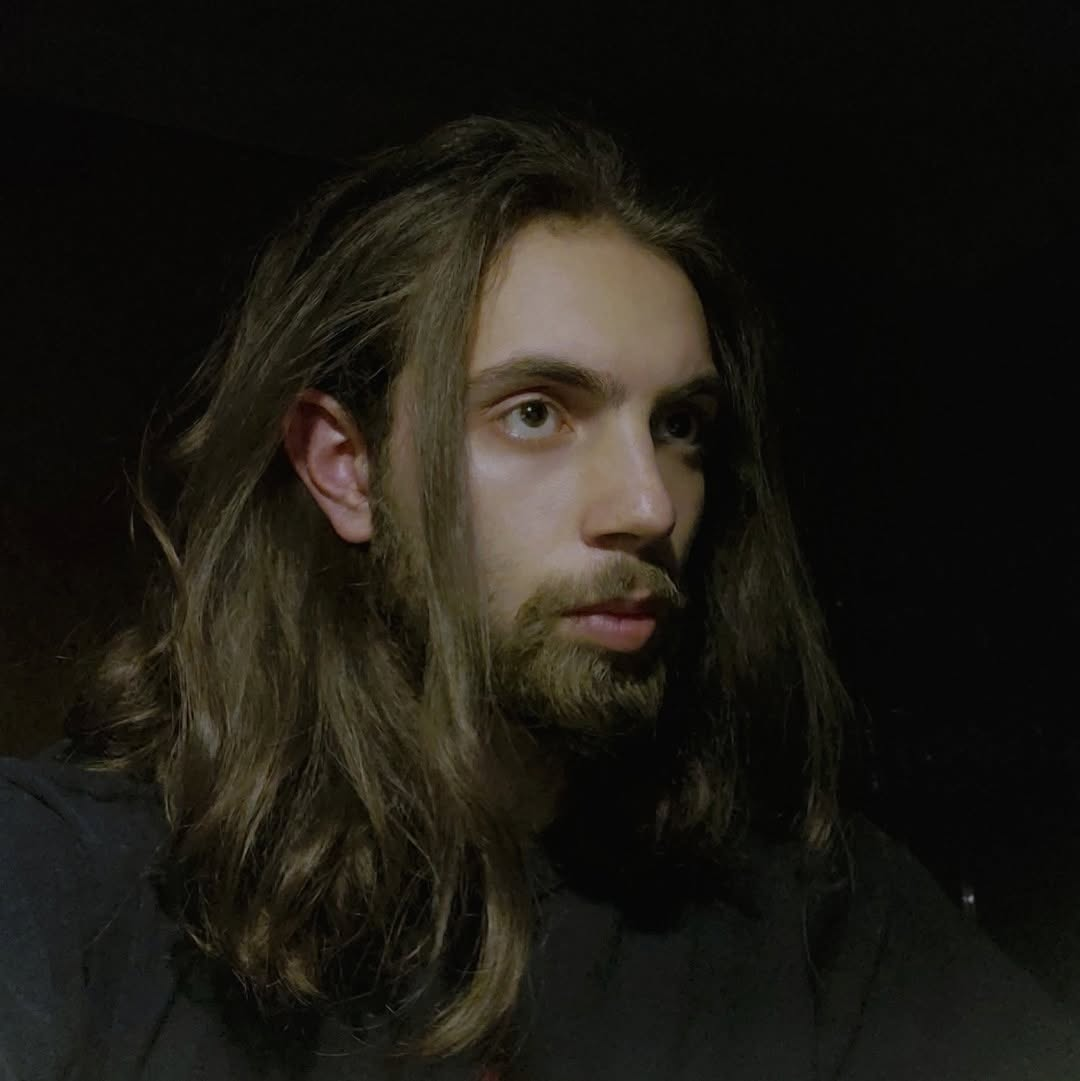
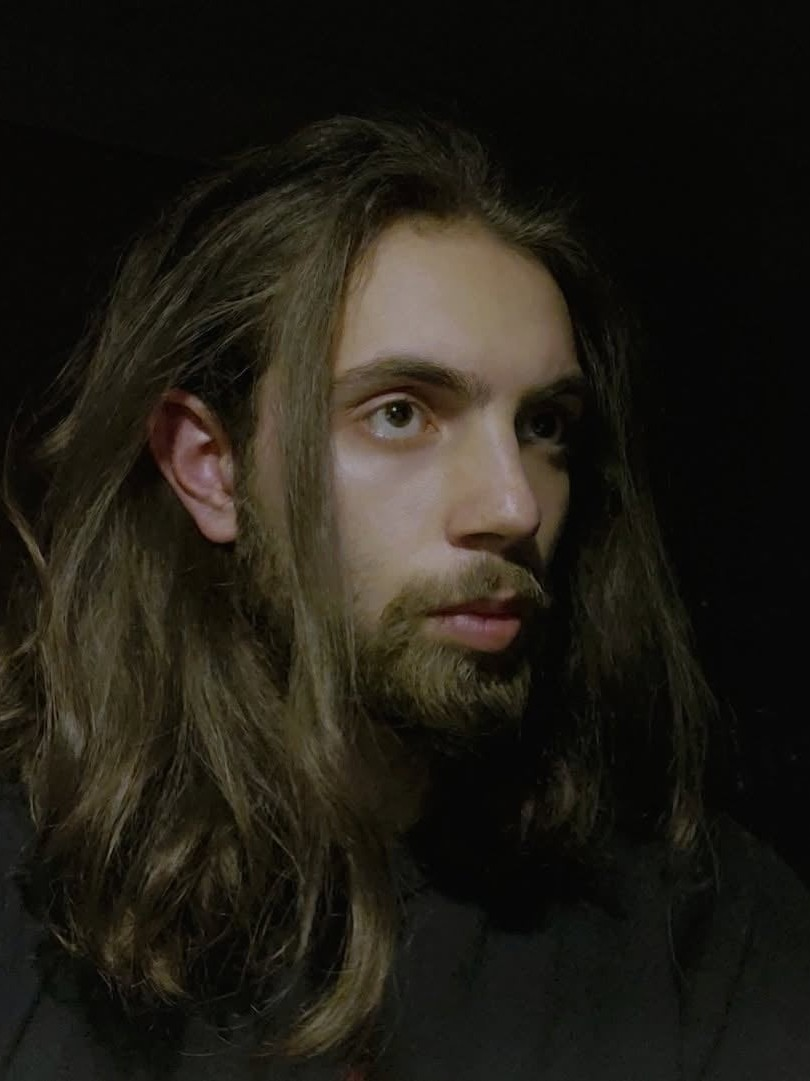
ძირითადი სტილების დასრულება

diff --git a/index.html b/index.html
@@ -6,7 +6,11 @@
     <title>Final Project</title>
     <link rel="stylesheet" href="assets/css/style.css" />
     <script type="module" src="assets/js/app.js" defer></script>
-    <!-- <link rel="shortcut icon" href="assets/img/logo.png" type="logo.png" /> -->
+    <link
+      rel="shortcut icon"
+      href="assets/img/meinreallife.jpg"
+      type="logo.png"
+    />
   </head>
   <body>
     <header class="container">
@@ -54,10 +58,22 @@
             </div>
           </div>
           <div class="socialicons">
-            <a href="#" target="_blank"><img src="" alt="" /></a>
-            <a href="#" target="_blank"><img src="" alt="" /></a>
-            <a href="#" target="_blank"><img src="" alt="" /></a>
-            <a href="#" target="_blank"><img src="" alt="" /></a>
+            <a href="https://www.facebook.com/avto.axalkaci" target="_blank"
+              ><img src="assets/img/fb.png.png" alt="social app icon"
+            /></a>
+            <a href="https://x.com/" target="_blank"
+              ><img src="assets/img/twt.png.png" alt="social app icon"
+            /></a>
+            <a
+              href="https://www.instagram.com/he.is.the.painkiller/"
+              target="_blank"
+              ><img src="assets/img/inst.png.png" alt="social app icon"
+            /></a>
+            <a
+              href="https://www.linkedin.com/in/avto-akhalkatsi-5710203b2/"
+              target="_blank"
+              ><img src="assets/img/lin.png.png" alt="social app icon"
+            /></a>
           </div>
         </div>
       </section>
@@ -184,13 +200,17 @@
             id="testimonial-container"
             data-category="ceo0"
           >
-            <img id="ceo-image" src="assets/img/test1.jpg" alt="photo of ceo" />
+            <img
+              id="ceo-image"
+              src="assets/img/tolkien.jpg"
+              alt="photo of ceo"
+            />
             <div class="impression">
               <p id="testimonial-text">
-                ''Lorem ipsum dolor sit amet consectetur adipisicing elit. Odit
-                consectetur earum rerum voluptas dolor, quos magnam sunt numquam
-                ea. Nobis aspernatur et aliquam, nulla culpa repudiandae magni
-                eligendi ipsum iste.,,
+                <span>“ </span>Lorem ipsum dolor sit amet consectetur
+                adipisicing elit. Odit consectetur earum rerum voluptas dolor,
+                quos magnam sunt numquam ea. Nobis aspernatur et aliquam, nulla
+                culpa repudiandae magni eligendi ipsum iste. <span>„</span>
               </p>
               <div class="position">
                 <p id="ceo-name">J.R.R. Tolkien</p>
@@ -203,13 +223,17 @@
             id="testimonial-container1"
             data-category="ceo1"
           >
-            <img id="ceo-image" src="assets/img/test2.jpg" alt="photo of ceo" />
+            <img
+              id="ceo-image"
+              src="assets/img/legolas.avif"
+              alt="photo of ceo"
+            />
             <div class="impression">
               <p id="testimonial-text">
-                ''Lorem ipsum dolor sit amet consectetur adipisicing elit. Odit
-                consectetur earum rerum voluptas dolor, quos magnam sunt numquam
-                ea. Nobis aspernatur et aliquam, nulla culpa repudiandae magni
-                eligendi ipsum iste.,,
+                <span>“ </span>Lorem ipsum dolor sit amet consectetur
+                adipisicing elit. Odit consectetur earum rerum voluptas dolor,
+                quos magnam sunt numquam ea. Nobis aspernatur et aliquam, nulla
+                culpa repudiandae magni eligendi ipsum iste. <span>„</span>
               </p>
               <div class="position">
                 <p id="ceo-name">Legolas Greenleaf</p>
@@ -222,13 +246,17 @@
             id="testimonial-container2"
             data-category="ceo2"
           >
-            <img id="ceo-image" src="assets/img/test3.jpg" alt="photo of ceo" />
+            <img
+              id="ceo-image"
+              src="assets/img/dio.jpg.jpg"
+              alt="photo of ceo"
+            />
             <div class="impression">
               <p id="testimonial-text">
-                ''Lorem ipsum dolor sit amet consectetur adipisicing elit. Odit
-                consectetur earum rerum voluptas dolor, quos magnam sunt numquam
-                ea. Nobis aspernatur et aliquam, nulla culpa repudiandae magni
-                eligendi ipsum iste.,,
+                <span>“ </span>Lorem ipsum dolor sit amet consectetur
+                adipisicing elit. Odit consectetur earum rerum voluptas dolor,
+                quos magnam sunt numquam ea. Nobis aspernatur et aliquam, nulla
+                culpa repudiandae magni eligendi ipsum iste. <span>„</span>
               </p>
               <div class="position">
                 <p id="ceo-name">Ronnie James Dio</p>
@@ -241,17 +269,21 @@
             id="testimonial-container3"
             data-category="ceo3"
           >
-            <img id="ceo-image" src="assets/img/test4.jpg" alt="photo of ceo" />
+            <img
+              id="ceo-image"
+              src="assets/img/iommi.jpg.jpg"
+              alt="photo of ceo"
+            />
             <div class="impression">
               <p id="testimonial-text">
-                ''Lorem ipsum dolor sit amet consectetur adipisicing elit. Odit
-                consectetur earum rerum voluptas dolor, quos magnam sunt numquam
-                ea. Nobis aspernatur et aliquam, nulla culpa repudiandae magni
-                eligendi ipsum iste.,,
+                <span>“ </span>Lorem ipsum dolor sit amet consectetur
+                adipisicing elit. Odit consectetur earum rerum voluptas dolor,
+                quos magnam sunt numquam ea. Nobis aspernatur et aliquam, nulla
+                culpa repudiandae magni eligendi ipsum iste. <span>„</span>
               </p>
               <div class="position">
                 <p id="ceo-name">Tony Iommi</p>
-                <p id="ceo-title">lead guitarist of Black Sabbath</p>
+                <p id="ceo-title">Lead Guitarist Of Black Sabbath</p>
               </div>
             </div>
           </div>
@@ -309,11 +341,23 @@
           <li><a href="#contactus" target="_self">Contact</a></li>
         </ul>
       </nav>
-      <div class="footerimg">
-        <a href="#" target="_blank"><img src="" alt="" /></a>
-        <a href="#" target="_blank"><img src="" alt="" /></a>
-        <a href="#" target="_blank"><img src="" alt="" /></a>
-        <a href="#" target="_blank"><img src="" alt="" /></a>
+      <div class="socialicons">
+        <a href="https://www.facebook.com/avto.axalkaci" target="_blank"
+          ><img src="assets/img/fb.png.png" alt="social app icon"
+        /></a>
+        <a href="https://x.com/" target="_blank"
+          ><img src="assets/img/twt.png.png" alt="social app icon"
+        /></a>
+        <a
+          href="https://www.instagram.com/he.is.the.painkiller/"
+          target="_blank"
+          ><img src="assets/img/inst.png.png" alt="social app icon"
+        /></a>
+        <a
+          href="https://www.linkedin.com/in/avto-akhalkatsi-5710203b2/"
+          target="_blank"
+          ><img src="assets/img/lin.png.png" alt="social app icon"
+        /></a>
       </div>
     </footer>
   </body>

diff --git a/assets/css/style.css b/assets/css/style.css
@@ -11,6 +11,9 @@ html {
   padding: 0;
   box-sizing: border-box;
 }
+img {
+  max-width: 100%;
+}
 body {
   background-color: rgba(30, 30, 30, 1);
 }
@@ -53,17 +56,22 @@ header div {
   display: flex;
   justify-content: space-between;
 }
-
+.socialicons {
+  margin-top: 36px;
+  display: flex;
+  column-gap: 25px;
+}
 .socialicons img {
-  height: 50px;
-  width: 50px;
+  height: 32px;
+  width: 32px;
 }
 .slider {
   position: relative;
   overflow: hidden;
 }
-.slider img {
-  width: 538px;
+.slides img {
+  max-width: 100%s;
+
   height: 617px;
   display: none;
 }
@@ -145,6 +153,10 @@ img.displaySlide {
   column-gap: 32px;
   margin-top: 70px;
 }
+.aboutme img {
+  /* width: 100%; */
+  max-height: 690px;
+}
 h2 {
   font-family: archvio;
   font-weight: 600;
@@ -169,13 +181,20 @@ label {
   display: flex;
   align-items: flex-start;
   flex-direction: column;
+  max-width: 753px;
 }
 .progressbars {
   display: flex;
   flex-direction: column;
 }
+span {
+  color: rgba(253, 111, 0, 1);
+  max-width: 18px;
+  font-weight: bolder;
+  font-family: 32px;
+}
 input {
-  width: 657px;
+  max-width: 753px;
   height: 12px;
   border-radius: 6px;
 }
@@ -420,7 +439,7 @@ input {
 .testimonial img {
   max-width: 235px;
   min-height: 235px;
-  border-radius: 50%;
+  border-radius: 100px;
 }
 .testimonial {
   display: flex;
@@ -466,6 +485,7 @@ input {
   transition: background 0.5s ease;
   border: 2px solid black;
   border-radius: 8px;
+  border: none;
 }
 .dot.active {
   background: rgba(253, 111, 0, 1);

diff --git a/assets/js/app.js b/assets/js/app.js
@@ -111,7 +111,7 @@ document.addEventListener("DOMContentLoaded", () => {
 
     const startActivation = sectionTopOffset - windowHeight;
 
-    const animationDistance = 600;
+    const animationDistance = 500;
     let scrollProgress = (scrollTop - startActivation) / animationDistance;
 
     scrollProgress = Math.max(0, scrollProgress);
